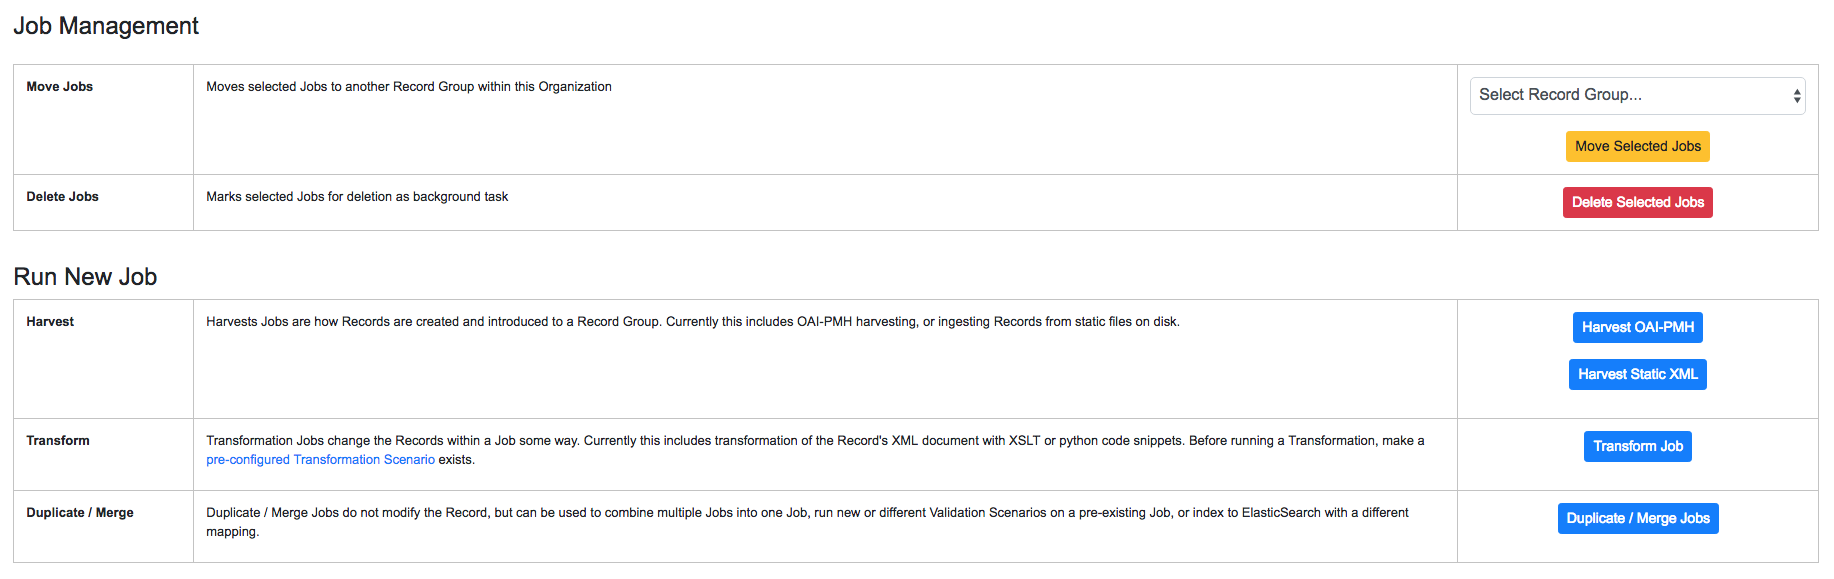
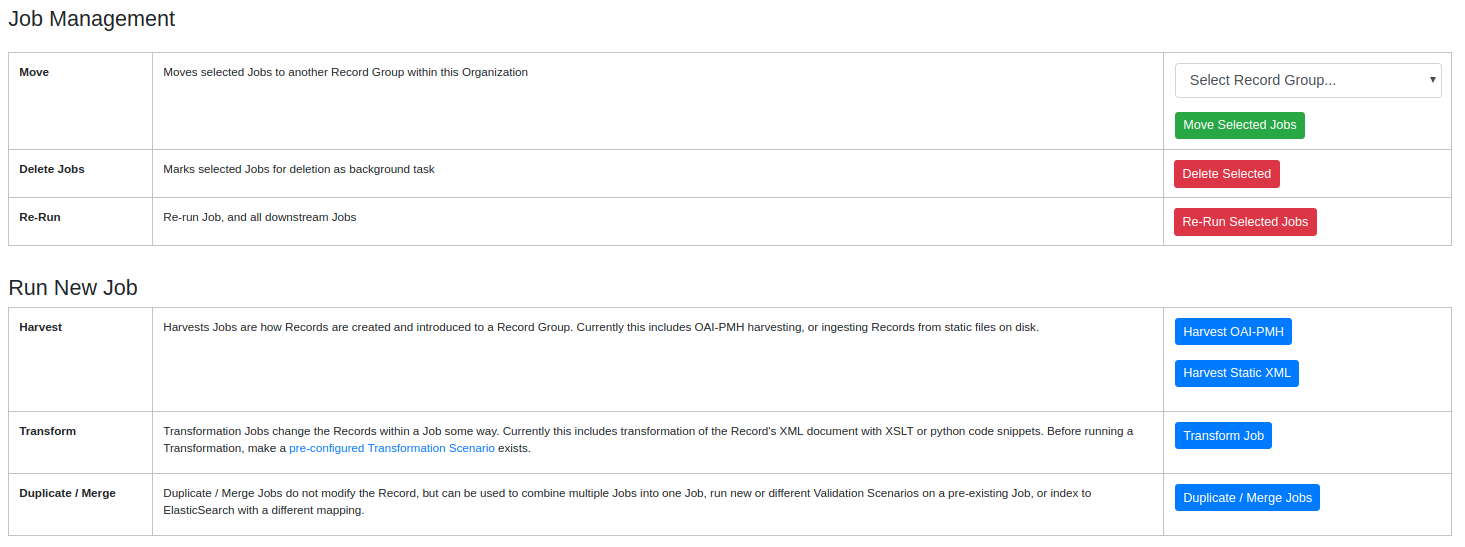
documentation for rerunning

diff --git a/docs/workflow.rst b/docs/workflow.rst
@@ -17,7 +17,7 @@ Record Versioning
 
 In an effort to preserve various stages of a Record through harvest, possible multiple transformation, merges and sub-dividing, Combine takes the approach of copying the Record each time.
 
-As outlined in the `Data Model <data_model.html>`_, Records are represented in both MySQL and ElasticSearch.  Each time a Job is run, and a Record is duplicated, it gets a new row in MySQL, with the full XML of the Record duplicated.  Records are associated with each other across Jobs by their `Combine ID <data_model.html#identifiers>`_.
+As outlined in the `Data Model <data_model.html>`_, Records are represented in both MongoDB and ElasticSearch.  Each time a Job is run, and a Record is duplicated, it gets a new document in Mongo, with the full XML of the Record duplicated.  Records are associated with each other across Jobs by their `Combine ID <data_model.html#identifiers>`_.
 
 This approach has pros and cons:
 
@@ -137,6 +137,10 @@ Keep in mind, if multiple Validation Scenarios were run for a particular Job, it
 **Limit Number of Records**
 
 The simplest of the three, users can provide a number to limit the Records from *each* Job.  For example, if **4** Jobs are selected as input, and a limit of **100** is entered, the resulting Job will have **400** Records: **4 x 100 = 400**.
+
+**Filter Duplicates**
+
+Optionally, remove duplicate Records based on matching ``record_id`` values.  As these are used for publishing, this can be a way to ensure that Records are not published with duplicate ``record_id``.
 
 **Refine by Mapped Fields**
 
@@ -259,7 +263,8 @@ Also in this area is a button "Job Notes" which will reveal a panel for reading 
 Below that are tabs that organize the various parts of the Job Details page:
 
   - `Records <#records>`__
-  - `Mapped Fields <#field-analysis>`__
+  - `Mapped Fields <#mapped-fields>`__
+  - `Re-Run <#re-run>`__
   - `Publish <#publish>`__
   - `Input Jobs <#input-jobs>`__
   - `Validation <#validation>`__
@@ -280,7 +285,7 @@ Records
 
 This table shows all Records for this Job.  It is sortable and searchable (though limited to what fields), and contains the following fields:
 
-  - ``DB ID`` - Record's Primary Key in MySQL
+  - ``DB ID`` - Record's ObjectID in MongoDB
   - ``Combine ID`` - identifier assigned to Record on creation, sticks with Record through all stages and Jobs
   - ``Record ID`` - Record identifier that is acquired, or created, on Record creation, and is used for publishing downstream.  This may be modified across Jobs, unlike the ``Combine ID``.
   - ``Originating OAI set`` - what OAI set this record was harvested as part of
@@ -292,8 +297,8 @@ This table shows all Records for this Job.  It is sortable and searchable (thoug
 In many ways, this is the most direct and primary route to access Records from a Job.
 
 
-Field Analysis
---------------
+Mapped Fields
+-------------
 
 This tab provides a table of all indexed fields for this job, the nature of which `is covered in more detail here <analysis.html#analyzing-indexed-fields>`_:
 
@@ -301,7 +306,19 @@ This tab provides a table of all indexed fields for this job, the nature of whic
    :alt: Indexed field analysis for a Job, across all Records
    :target: _images/job_field_analysis.png
 
-   Indexed field analysis for a Job, across all Records
+   Indexed field analysis for a Job, across all 
+
+
+Re-Run
+------
+
+Jobs can be re-run "in place" such that all current parameters, applied scenarios, and linkages to other jobs are maintained.  All "downstream" Jobs -- Jobs that inherit Records from this Job -- are also automatically re-run.
+
+One way to think about re-running Jobs would be to think of a group of Jobs that that inherit Records from one another as a "pipeline".  
+
+Jobs may also be re-run, as well as in bulk with other Jobs, from a Record Group page.
+
+More information can be found here: `Re-Running Jobs documentation <rerunning_jobs.html>`__.
 
 
 Publish

diff --git a/docs/rerunning_jobs.rst b/docs/rerunning_jobs.rst
@@ -1,0 +1,69 @@
+***************
+Re-Running Jobs
+***************
+
+Overview
+========
+
+Jobs in Combine may be "re-run" in a way that makes a series of interlinked Jobs resemble that of a "pipeline".  This functionality can be particularly helpful when a series of harvests, merges, validations, transformations, and other checks, will be repeated in the future, but with new and/or refresh records.  
+
+When a Job is re-run, the following actions are performed in preparation:
+
+  - all Records for that Job are dropped from the DB
+  - all mapped fields in ElasticSearch are dropped (the ElasticSearch index)
+  - all validations, DPLA bulk data tests, and other information that is based on the Records are removed
+
+However, what remains is important:
+
+  - the Job ID, name, notes
+  - all configurations that were used
+
+    - field mapping
+    - validations applied
+    - input filters
+    - etc.
+
+  - linkages to other Jobs; what Jobs were used as input, and what Jobs used *this* Job as input
+  - publish status of a Job, with corresponding ``publish_set_id`` (if a Job is published before re-running, the updated Records will automatically publish as well)
+
+
+Examples
+========
+
+Consider the example below, with five Jobs in Combine:
+
+.. figure:: img/job_rerun.png
+   :alt: Hypothetical "family" or "lineage" of Jobs in Combine
+   :target: _images/job_rerun.png
+
+   Hypothetical "family" or "lineage" of Jobs in Combine
+
+In this figure, Records from an OAI Harvest ``J1`` are used as input for ``J2``.  A subset of these are passed to ``J3``, perhaps failing some kind of validation, and are fixed then in ``J4``.  ``J5`` is a final merge of the valid records from ``J2`` and ``J4``, resulting in a final form of the Records.  At each hop, there may be various validations and mappings to support the validation and movement of Records.
+
+Now, let's assume the entire workflow is needed again, but we know that ``J1`` needs to re-harvest Records because there are new or altered Records.  Without re-running Jobs in Combine, it would be necessary to recreate each hop in this pipeline, thereby also duplicating the amount of Records.  Duplication of Records may be beneficial in some cases, but not alll.  In this example, a user would only need to re-run Job ``J1``, which would trigger all "downstream" Jobs, all the way to Job ``J5``.  
+
+Let's look at a more realistic example, with actual Combine Jobs.  Take the following:
+
+.. figure:: img/rerun_example.png
+   :alt: Combine Re-Run "Pipeline"
+   :target: _images/rerun_example.png
+
+   Combine Re-Run "Pipeline"
+
+In this "pipeline":
+
+  - two OAI harvests are performed
+  - all *invalid* Records are sent to a Transform that fixes validation problems
+  - all *valid* Records from that Transform Job, and the original Harvests, are merged together in a final Job
+
+The details of these hops are hidden from this image, but there are validations, field mappings, and other configurations at play here.  If a re-harvest is needed for one, or both, of the OAI harvests, a re-run of those Jobs will trigger all "downstream" Jobs, refreshing the Records along the way.
+
+If we were to re-run the two Harvest Jobs, we are immediately kicked back to the Record Group screen, where it can be observed that all Jobs have 0 Records, and are currently running or queued to run:
+
+.. figure:: img/rerun_fire.png
+   :alt: Re-Run triggered, Jobs running and/or queued
+   :target: _images/rerun_fire.png
+
+   Re-Run triggered, Jobs running and/or queued
+
+

diff --git a/docs/data_model.rst b/docs/data_model.rst
@@ -110,7 +110,7 @@ Record
 
 The most granular level of hierarchy in Combine is a single Record.  Records are part of Jobs.
 
-Record's actual XML content, and other attributes, are recorded in MySQL, while their indexed fields are stored in ElasticSearch.
+Record's actual XML content, and other attributes, are recorded in MongoDB, while their indexed fields are stored in ElasticSearch.
 
 Identifiers
 -----------
@@ -120,7 +120,7 @@ Additionally, Record's have three important identifiers:
   - **Database ID**
 
     - ``id`` (integer)
-    - This is the Primary Key (PK) in MySQL, unique for all Records
+    - This is the ObjectID in MongoDB, unique for all Records
 
   - **Combine ID**
 

diff --git a/docs/index.rst b/docs/index.rst
@@ -32,12 +32,13 @@ If you just want to kick the tires, the `QuickStart guide <quickstart.html>`_ pr
    data_model
    spark_and_livy
    configuration
-   workflow   
+   workflow
    harvesting
    transforming
    merging
    publishing
    analysis
+   rerunning_jobs
    exporting
    background_tasks
    tests
